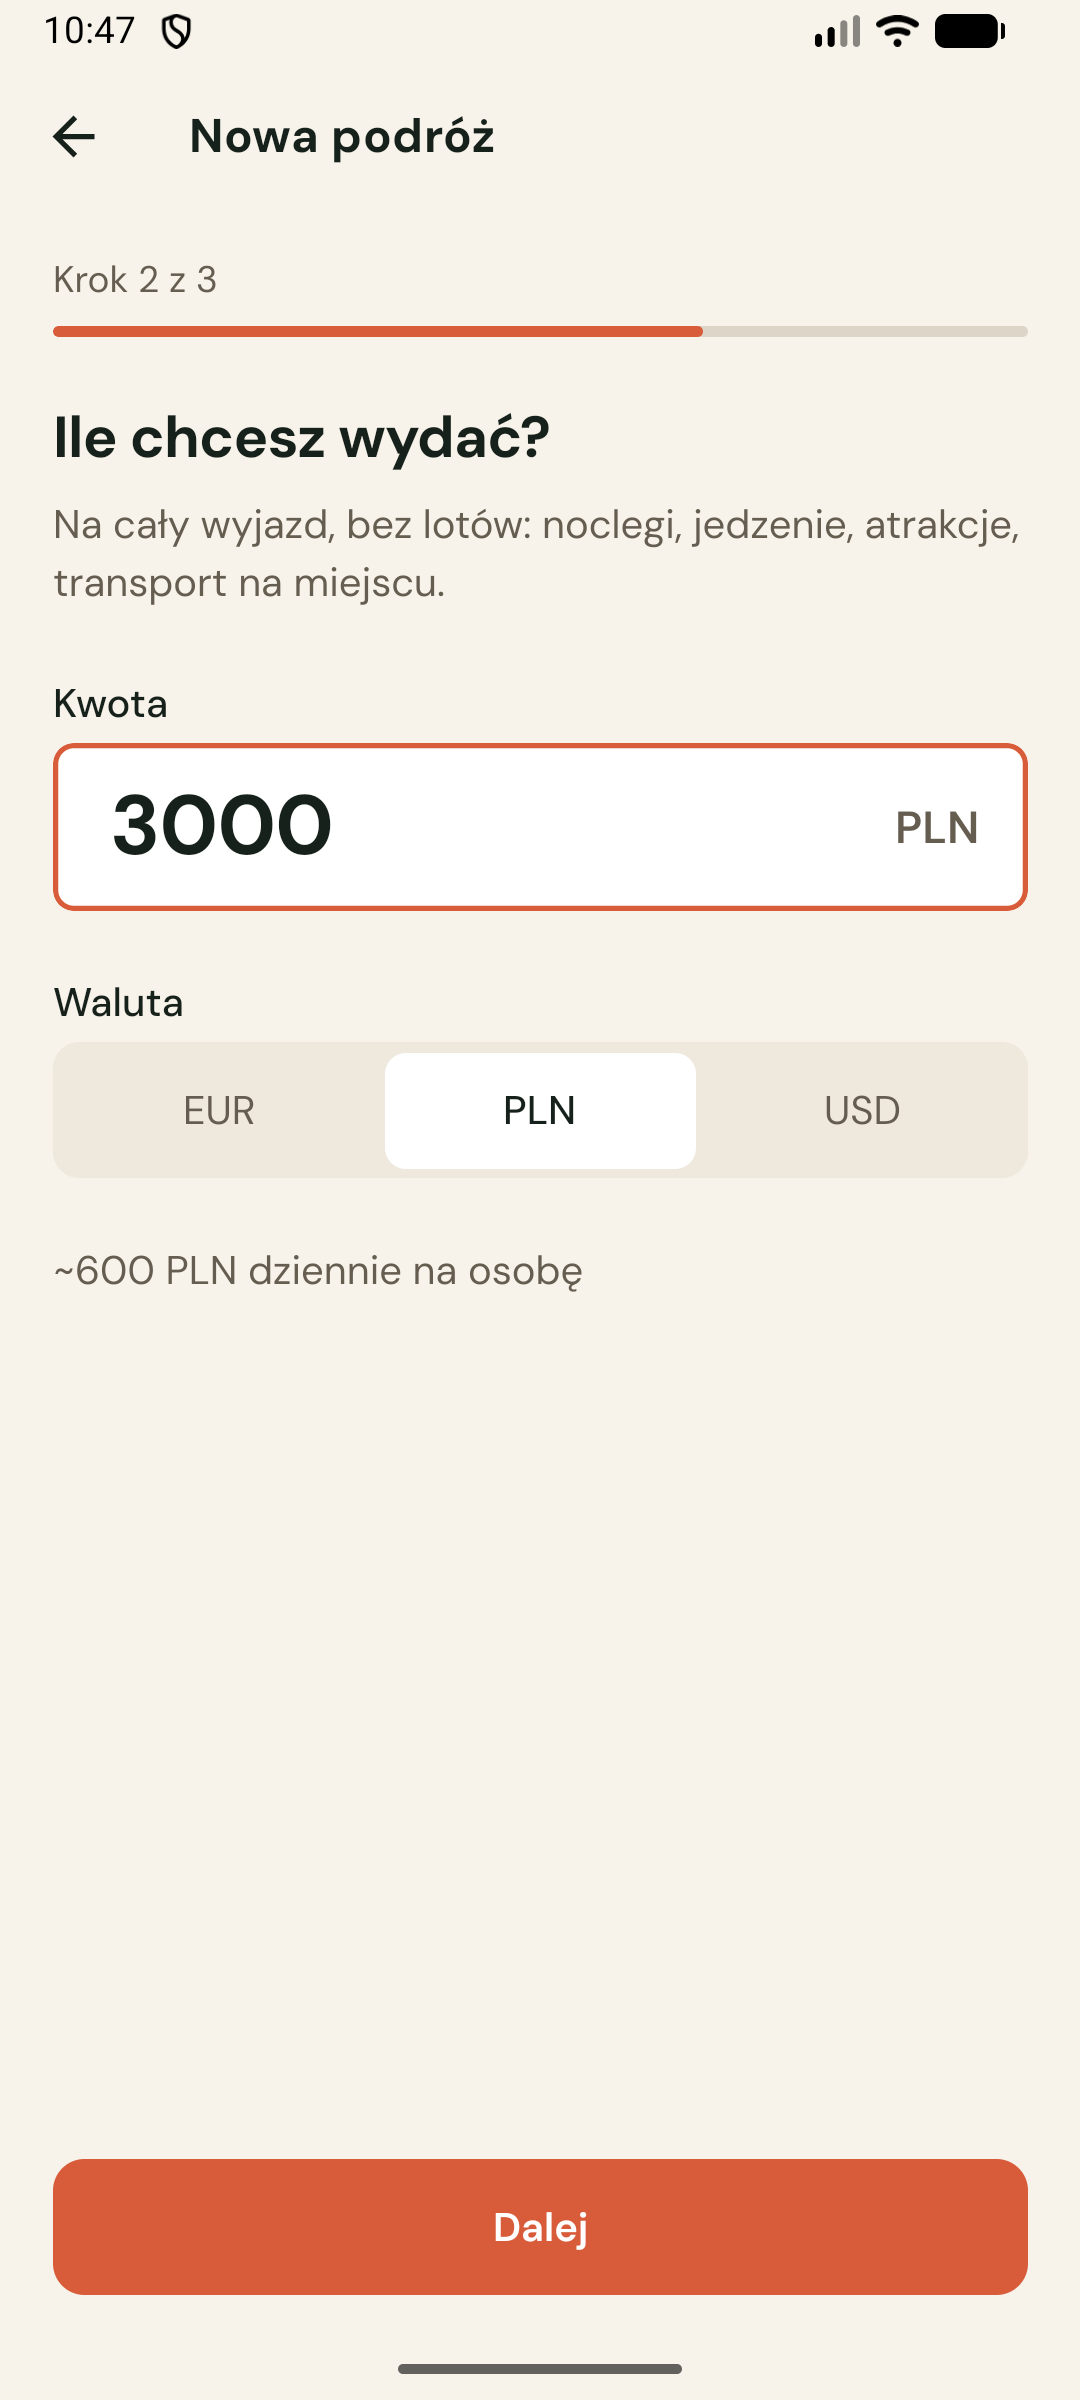
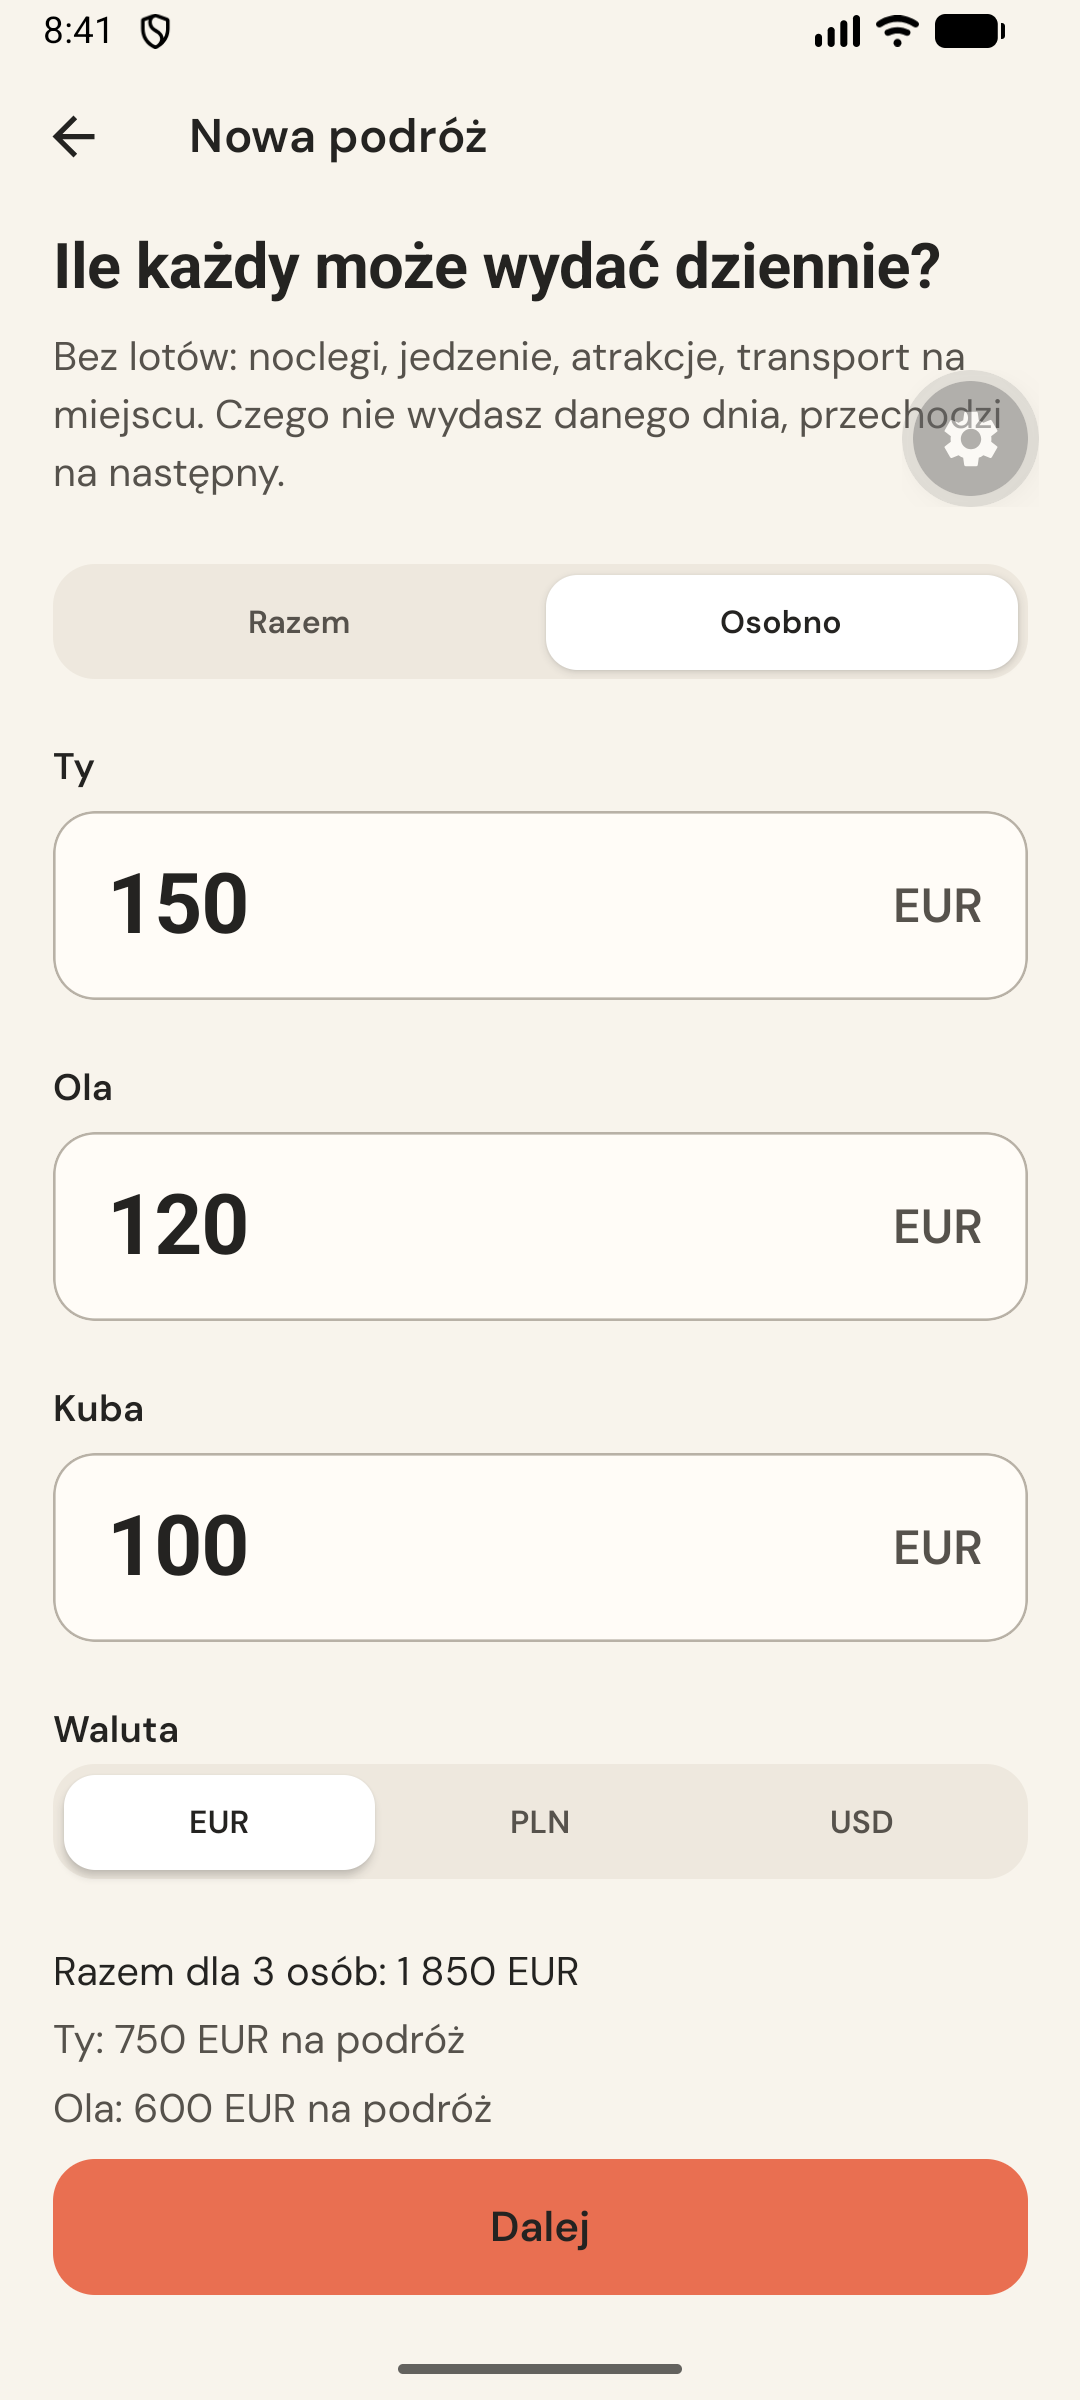
docs(budget): new wizard budget screenshot and README caption

diff --git a/prompts/daily-budget/plan.md b/prompts/daily-budget/plan.md
@@ -1,5 +1,5 @@
 # Zadanie: dzienny budżet na osobę (razem / osobno)
-Status: zrobione (R5–R6 wypchnięte 2026-11-05; zostaje zrzut `docs/screenshots/wizard-budget.png` i sprawdzenie na iOS)
+Status: zrobione (R5–R6 i nowy zrzut kroku Budżet wypchnięte 2026-11-05; zostaje sprawdzenie na iOS)
 
 ## Zrozumienie i założenia
 Dziś podróż ma jedną kwotę `budgetPerPerson` na całą podróż, wspólną dla wszystkich. Przenoszenie niewydanej kwoty na następny dzień już działa (`src/lib/expense-budget.ts`, expenses D7), ale liczy się z kwoty na całą podróż.
@@ -125,3 +125,4 @@ Uwaga: lokalna baza w Dockerze ma już migrację z `feature/member-order` (`crea
 - 2026-11-05 błąd „Przylot zapisuje do Wylot”: Kacper zdecydował naprawę na tej gałęzi; tester (Android 17, Expo Go) NIE odtworzył go w 4 przebiegach (Wylot→Przylot, sam Przylot, tapnięcia we współrzędne, lot powrotny) — pola nie nachodzą na siebie, logi czyste. Niesprawdzone warunki: otwarta klawiatura po polu lotniska, przewinięty ekran, nieudane „Dalej”, przełączanie Lot tam/Powrót, EN. **Decyzja Kacpra:** sprawa zamknięta (najpewniej błąd poprzedniego testu), wpis usunięty z `known-limitations.md`; scenariusze 1–4 na lokalnym Supabase. Uwaga: `.env` wskazuje chmurowy projekt — do testów Metro z lokalnym URL tylko w środowisku procesu, `.env` bez zmian.
 - 2026-11-05 test kreatora na emulatorze (tester, Android 17, Expo Go, lokalny Supabase, PL, ciemny): scen. 1 Razem (100 EUR × 4 dni × 3 os. = 1 200, karta ✓) PASS · scen. 2 Osobno (100/80/50 → 920, tapnięcie aktywnego segmentu nie nadpisuje, podsumowanie i arkusz otwiera Osobno ✓) PASS · scen. 3 walidacja (brak błędu przy wpisywaniu, błąd po „Dalej”, przewinięcie do pierwszego błędnego pola) PASS częściowo · scen. 4 powrót do lotów: kwoty zachowane, zmiana wylotu powrotnego zmienia sumę (7 dni → 1 610) PASS. NIE URUCHOMIONE: solo, 5 znajomych, jasny motyw, podwójne „Zapisz”, przeskakiwanie podróży. Pytania do Kacpra: (Q1) Razem → Osobno resetuje kwoty znajomych do kwoty wspólnej; (Q2) koniec podróży liczony z wylotu powrotnego, nie z przylotu (`trip-dates.ts`, istniejące zachowanie); (Q3) kolejność osób: kreator wg wpisania, podsumowanie/karta/arkusz alfabetycznie; (Q4) dialog „Odrzucić wpisane dane?” przy cofnięciu (istniejący kreator). Drobne: zębatka dev overlay zasłania nagłówek kroku (tylko dev); po zamknięciu pickera fokus skacze do „Nr lotu” i otwiera klawiaturę.
 - 2026-11-05 dokończenie testu na emulatorze (tester, konto `tester_exp1`): A solo — krok budżetu, podsumowanie i arkusz poprawne (bez przełącznika, 100 × 7 = 700), ale karta na ekranie głównym pokazuje „Razem 700 EUR na podróż” zamiast „700 EUR na podróż” (`CurrentTrip.tsx:224` zawsze `newTrip.summary.totals`) → pytanie Q5 · B 5 znajomych Osobno PASS (przewijanie, „Dalej” przypięty, przewinięcie do pustego pola, sumy × 7) · C jasny motyw: karta i arkusz czytelne; krok budżetu kreatora w jasnym NIESPRAWDZONY · D „Zapisz” przy otwartej klawiaturze: 4/4 zapisane za pierwszym tapnięciem, przeskakiwania aktualnej podróży brak (niesprawdzone na podróży-duplikacie z tymi samymi datami). Dane testowe: podróż solo 10–16 lis (130 EUR/dzień), podróż 3 os. 10–13 lis (110 EUR/dzień).
+- 2026-11-05 nowy zrzut `docs/screenshots/wizard-budget.png` (emulator, Expo Go, jasny, Osobno 150/120/100 EUR); Kacper zaakceptował mimo zębatki Expo Go nad opisem; podpis w README: „daily, together or per person”.

diff --git a/README.md b/README.md
@@ -23,7 +23,7 @@ Taken on an Android emulator with test data. The app is shown in Polish.
     <td align="center"><img src="docs/screenshots/trip-menu.png" width="220" alt="Trip menu with rename, budget and delete"><br><sub><b>Trip menu</b><br>rename, budget, delete</sub></td>
   </tr>
   <tr>
-    <td align="center"><img src="docs/screenshots/wizard-budget.png" width="220" alt="Create-trip wizard, budget step"><br><sub><b>New trip: budget</b><br>per person, with a daily figure</sub></td>
+    <td align="center"><img src="docs/screenshots/wizard-budget.png" width="220" alt="Create-trip wizard, budget step"><br><sub><b>New trip: budget</b><br>daily, together or per person</sub></td>
     <td align="center"><img src="docs/screenshots/wizard-summary.png" width="220" alt="Create-trip wizard, summary step"><br><sub><b>New trip: summary</b><br>name, cover, flights</sub></td>
     <td></td>
   </tr>
